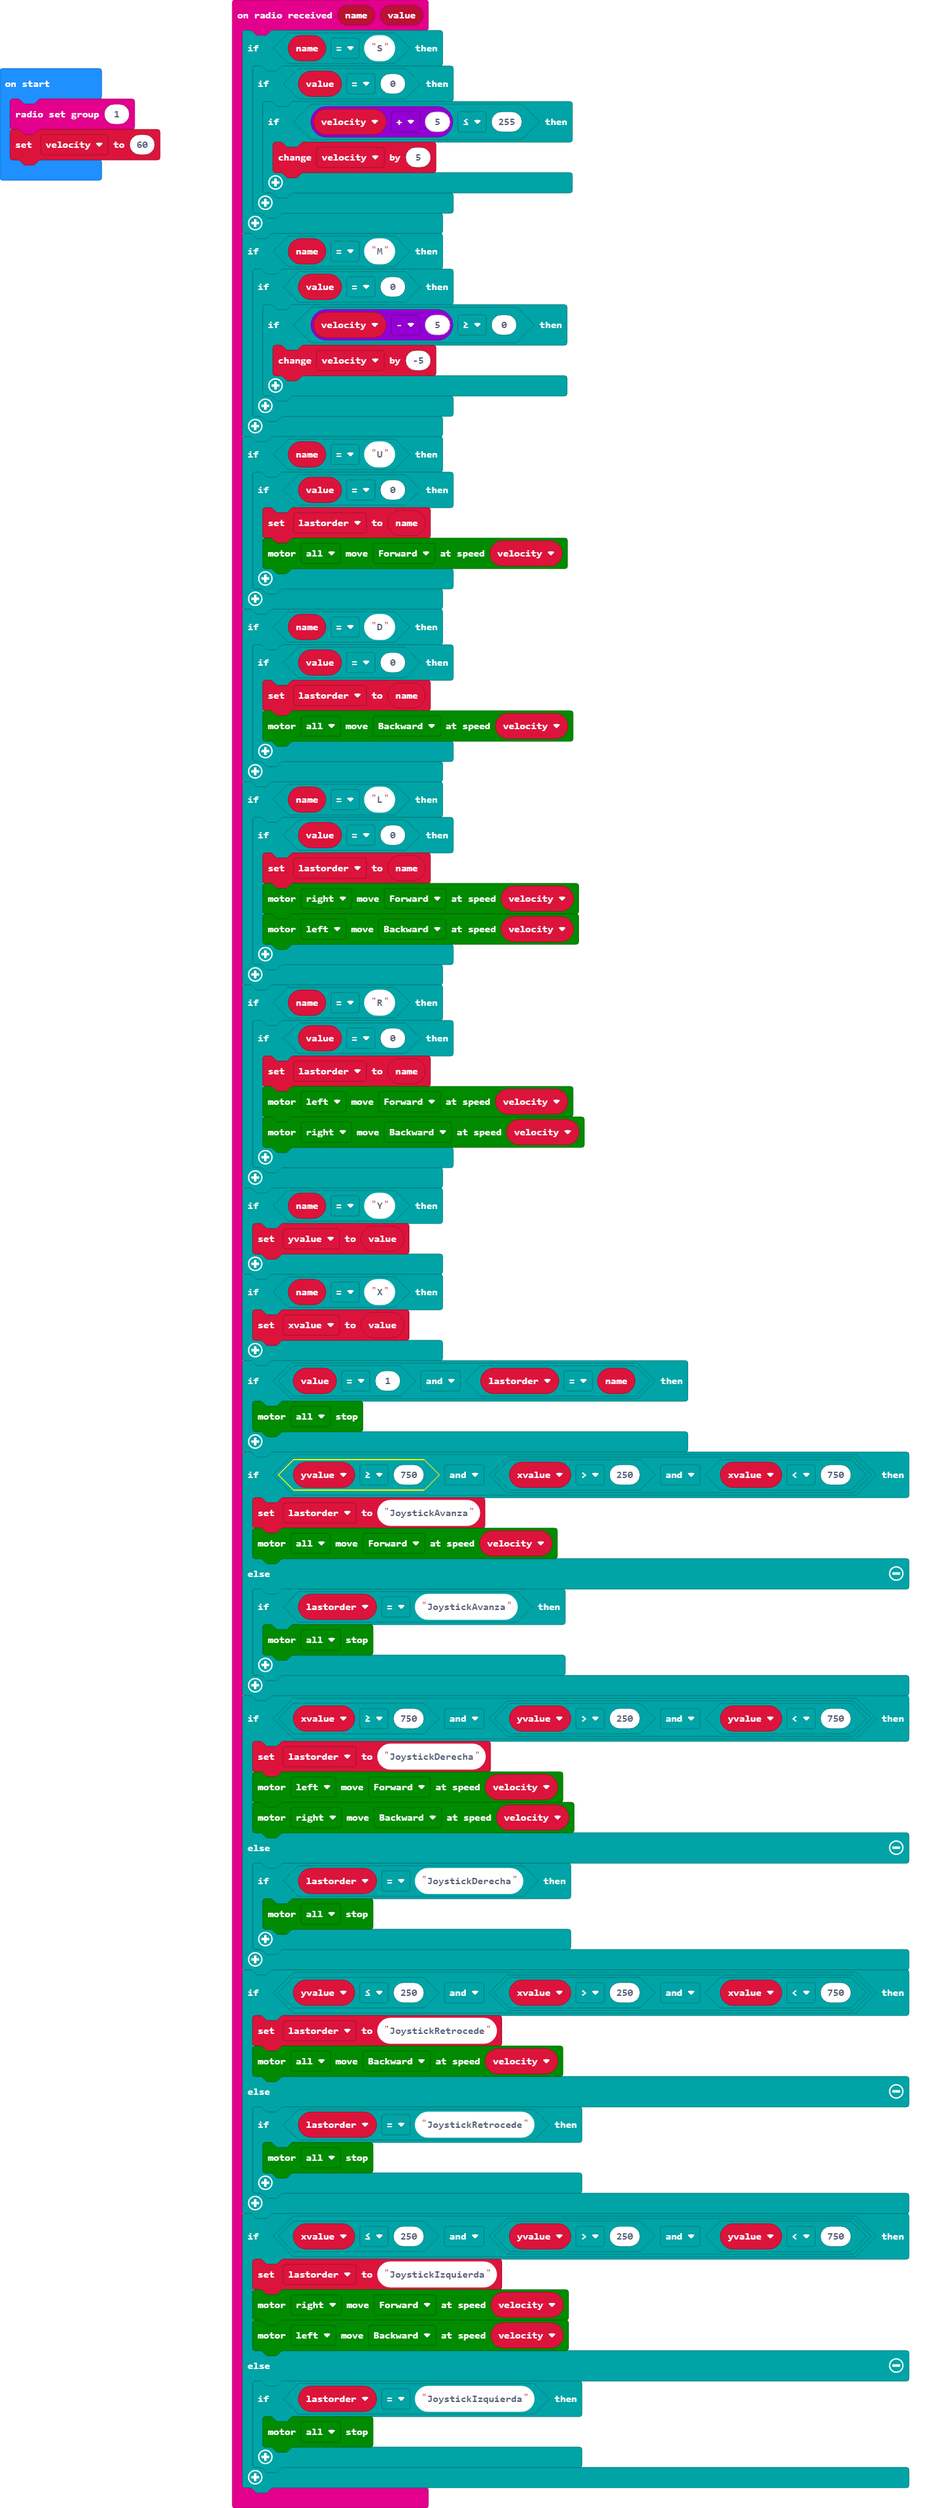
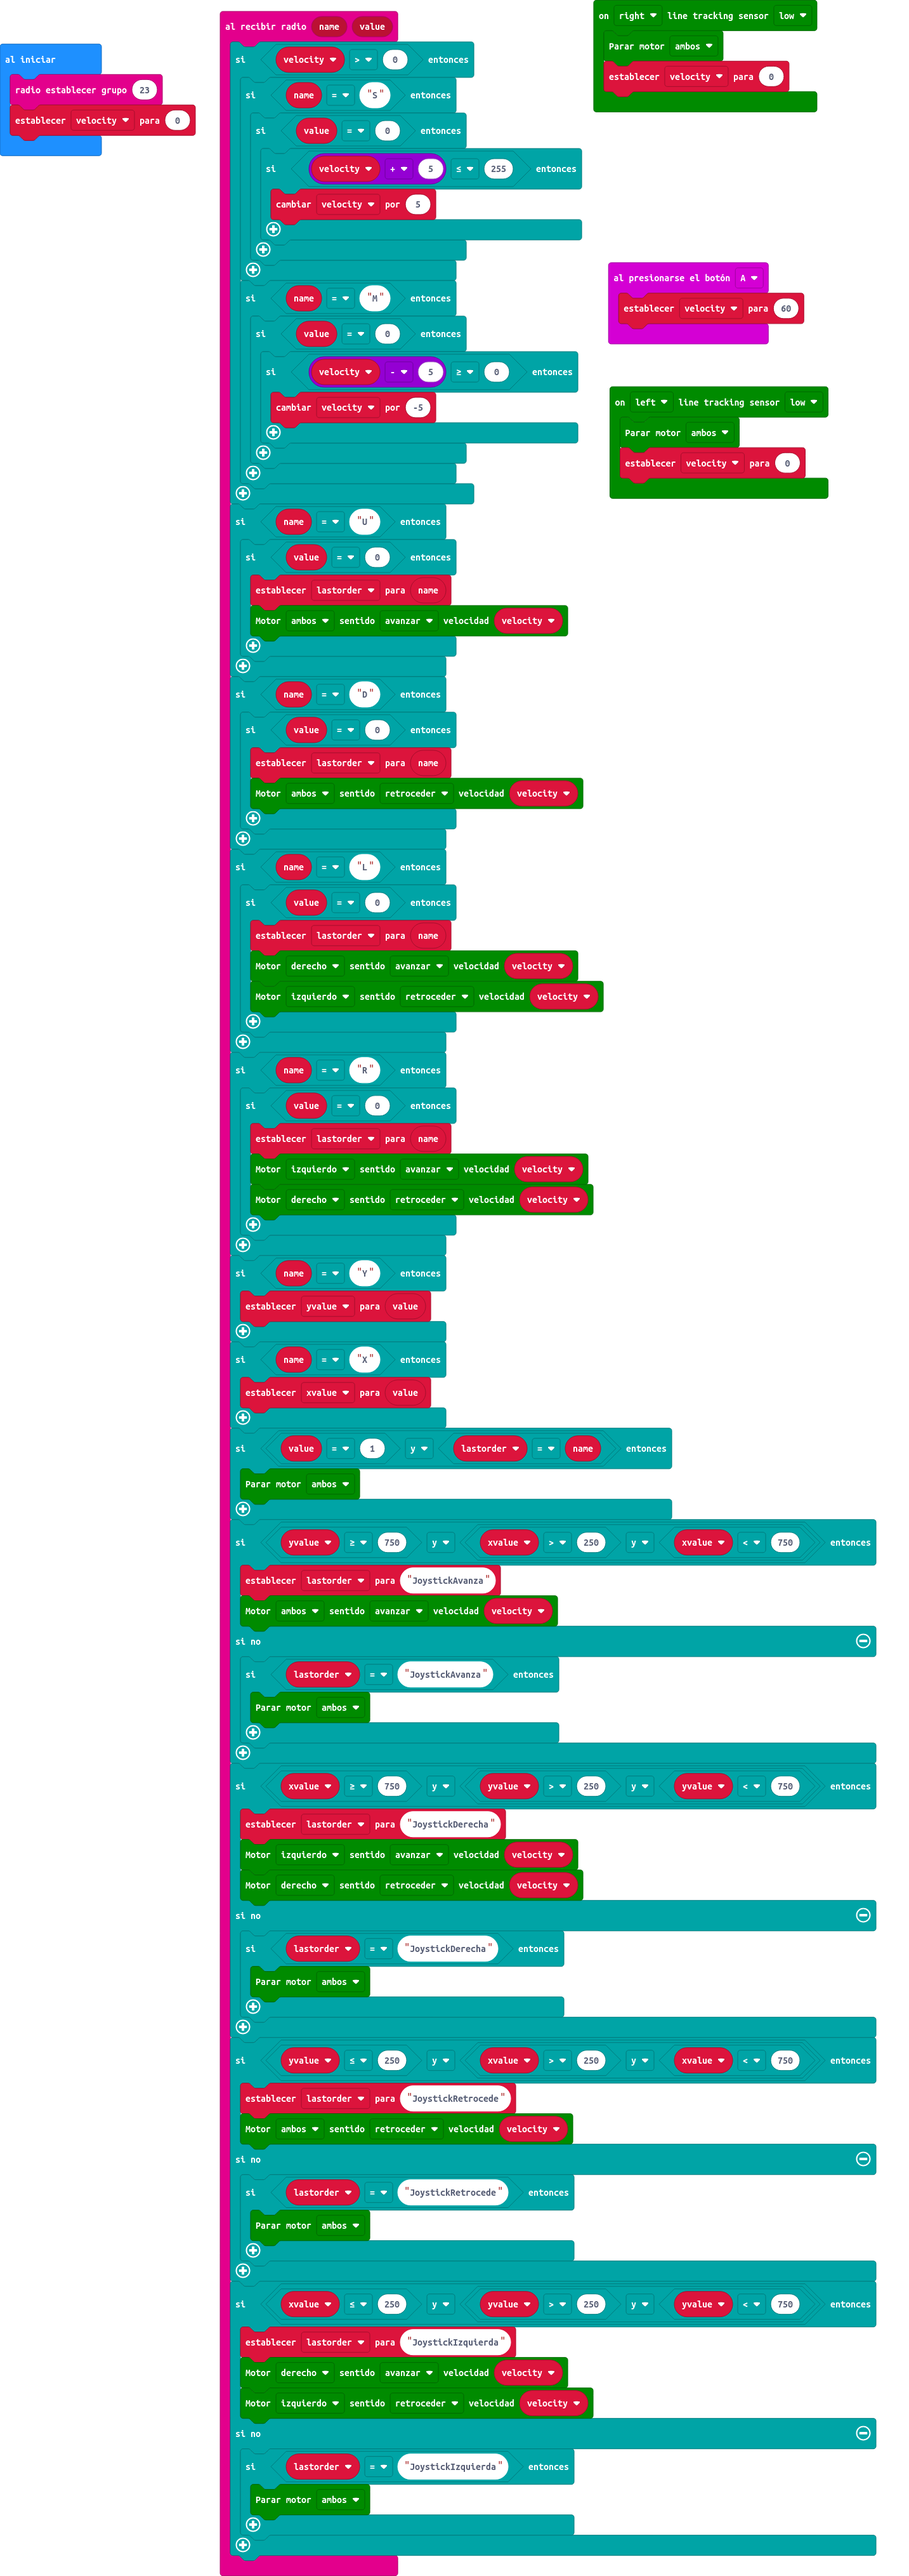
Actualizar main.blocks, main.ts

Changed region(s): [[0.0, 0.0, 0.9826, 1.0]]

diff --git a/main.ts b/main.ts
@@ -1,15 +1,28 @@
+maqueen.ltEvent(maqueen.Patrol1.PatrolRight, maqueen.Voltage.Low, function () {
+    maqueen.motorStop(maqueen.Motors.All)
+    velocity = 0
+})
+input.onButtonPressed(Button.A, function () {
+    velocity = 60
+})
+maqueen.ltEvent(maqueen.Patrol1.PatrolLeft, maqueen.Voltage.Low, function () {
+    maqueen.motorStop(maqueen.Motors.All)
+    velocity = 0
+})
 radio.onReceivedValue(function (name, value) {
-    if (name == "S") {
-        if (value == 0) {
-            if (velocity + 5 <= 255) {
-                velocity += 5
+    if (velocity > 0) {
+        if (name == "S") {
+            if (value == 0) {
+                if (velocity + 5 <= 255) {
+                    velocity += 5
+                }
             }
         }
-    }
-    if (name == "M") {
-        if (value == 0) {
-            if (velocity - 5 >= 0) {
-                velocity += -5
+        if (name == "M") {
+            if (value == 0) {
+                if (velocity - 5 >= 0) {
+                    velocity += -5
+                }
             }
         }
     }
@@ -87,5 +100,5 @@ let xvalue = 0
 let yvalue = 0
 let lastorder = ""
 let velocity = 0
-radio.setGroup(1)
-velocity = 60
+radio.setGroup(23)
+velocity = 0
